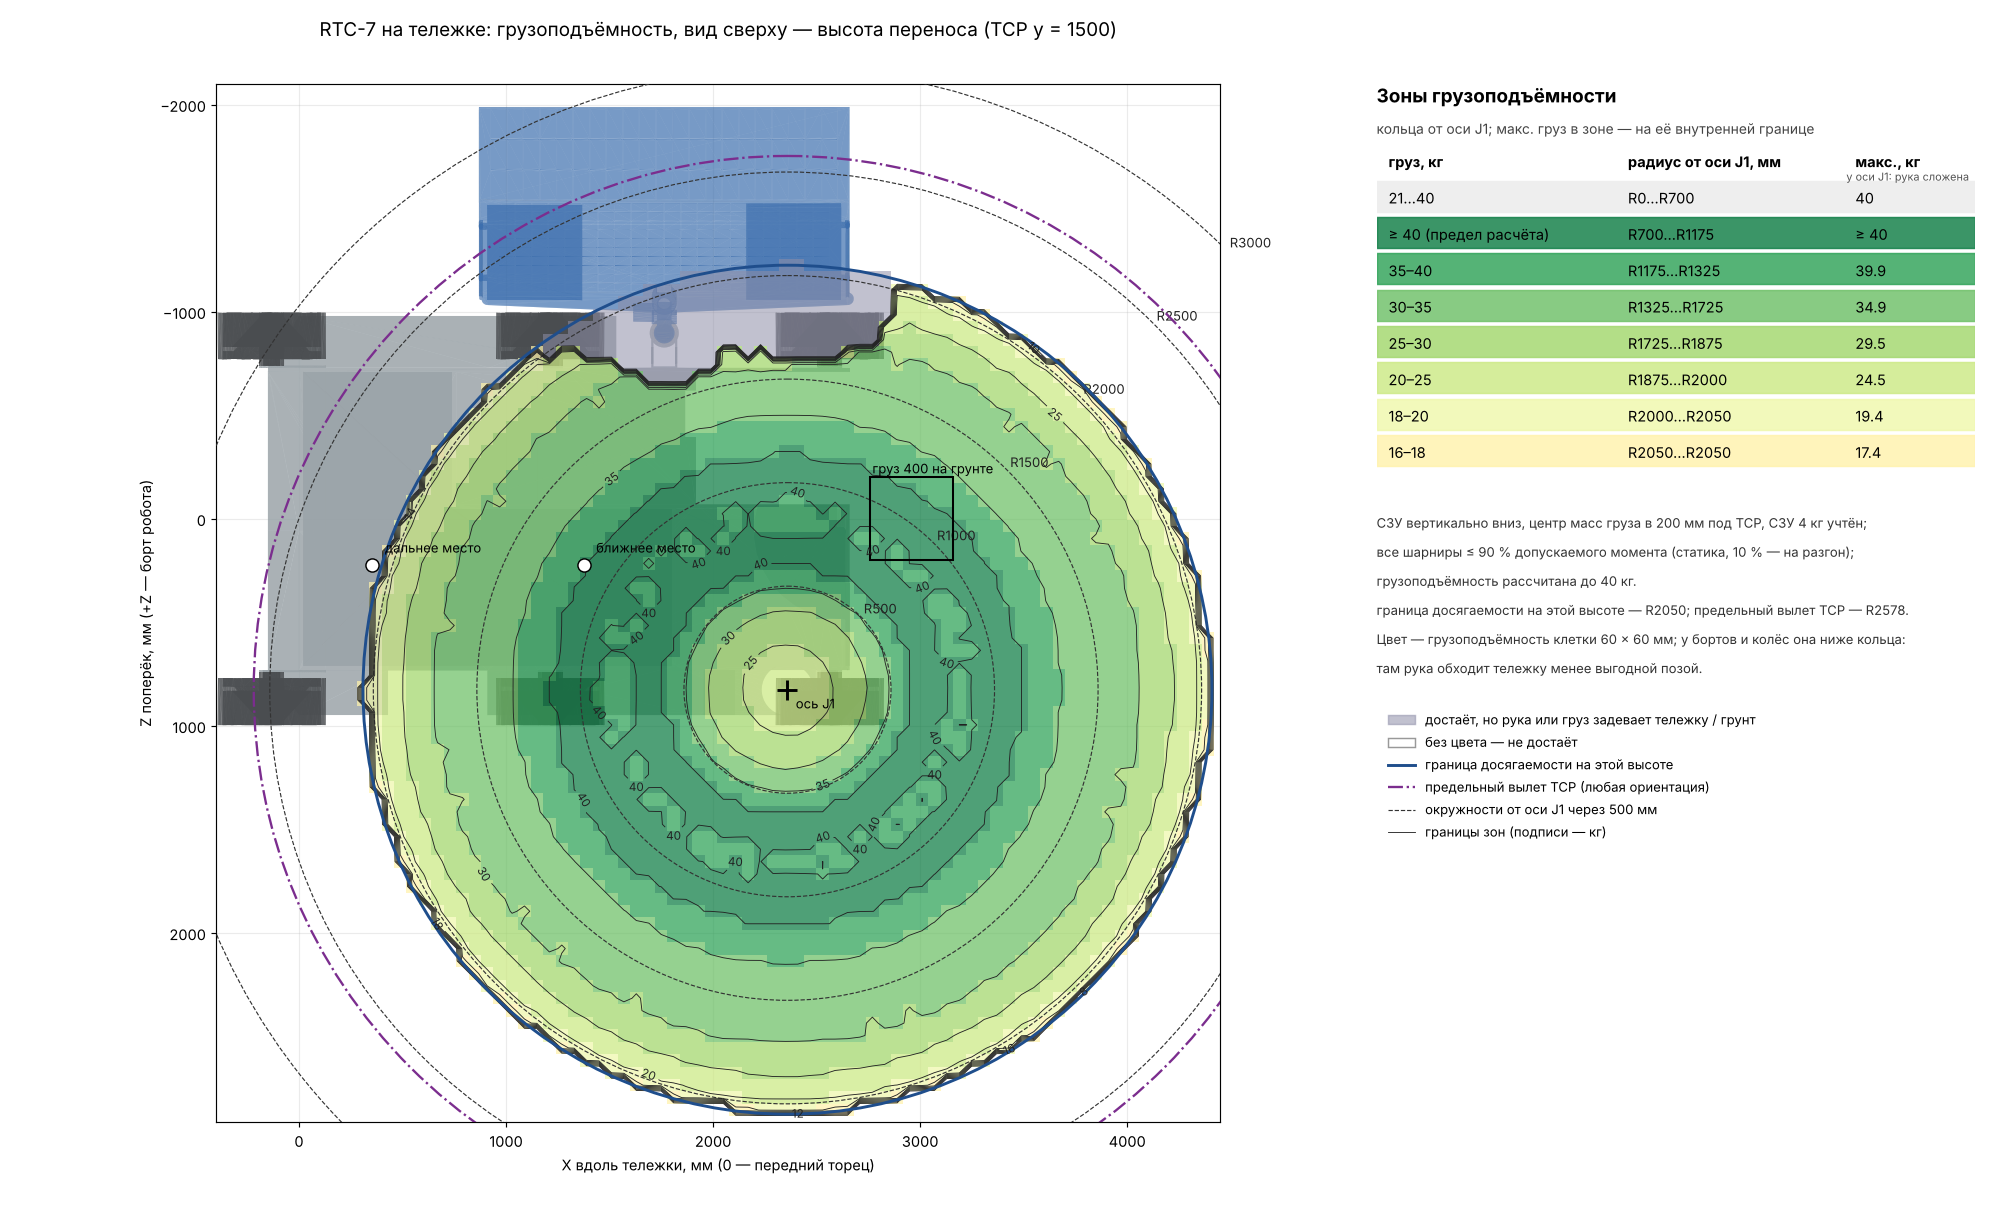
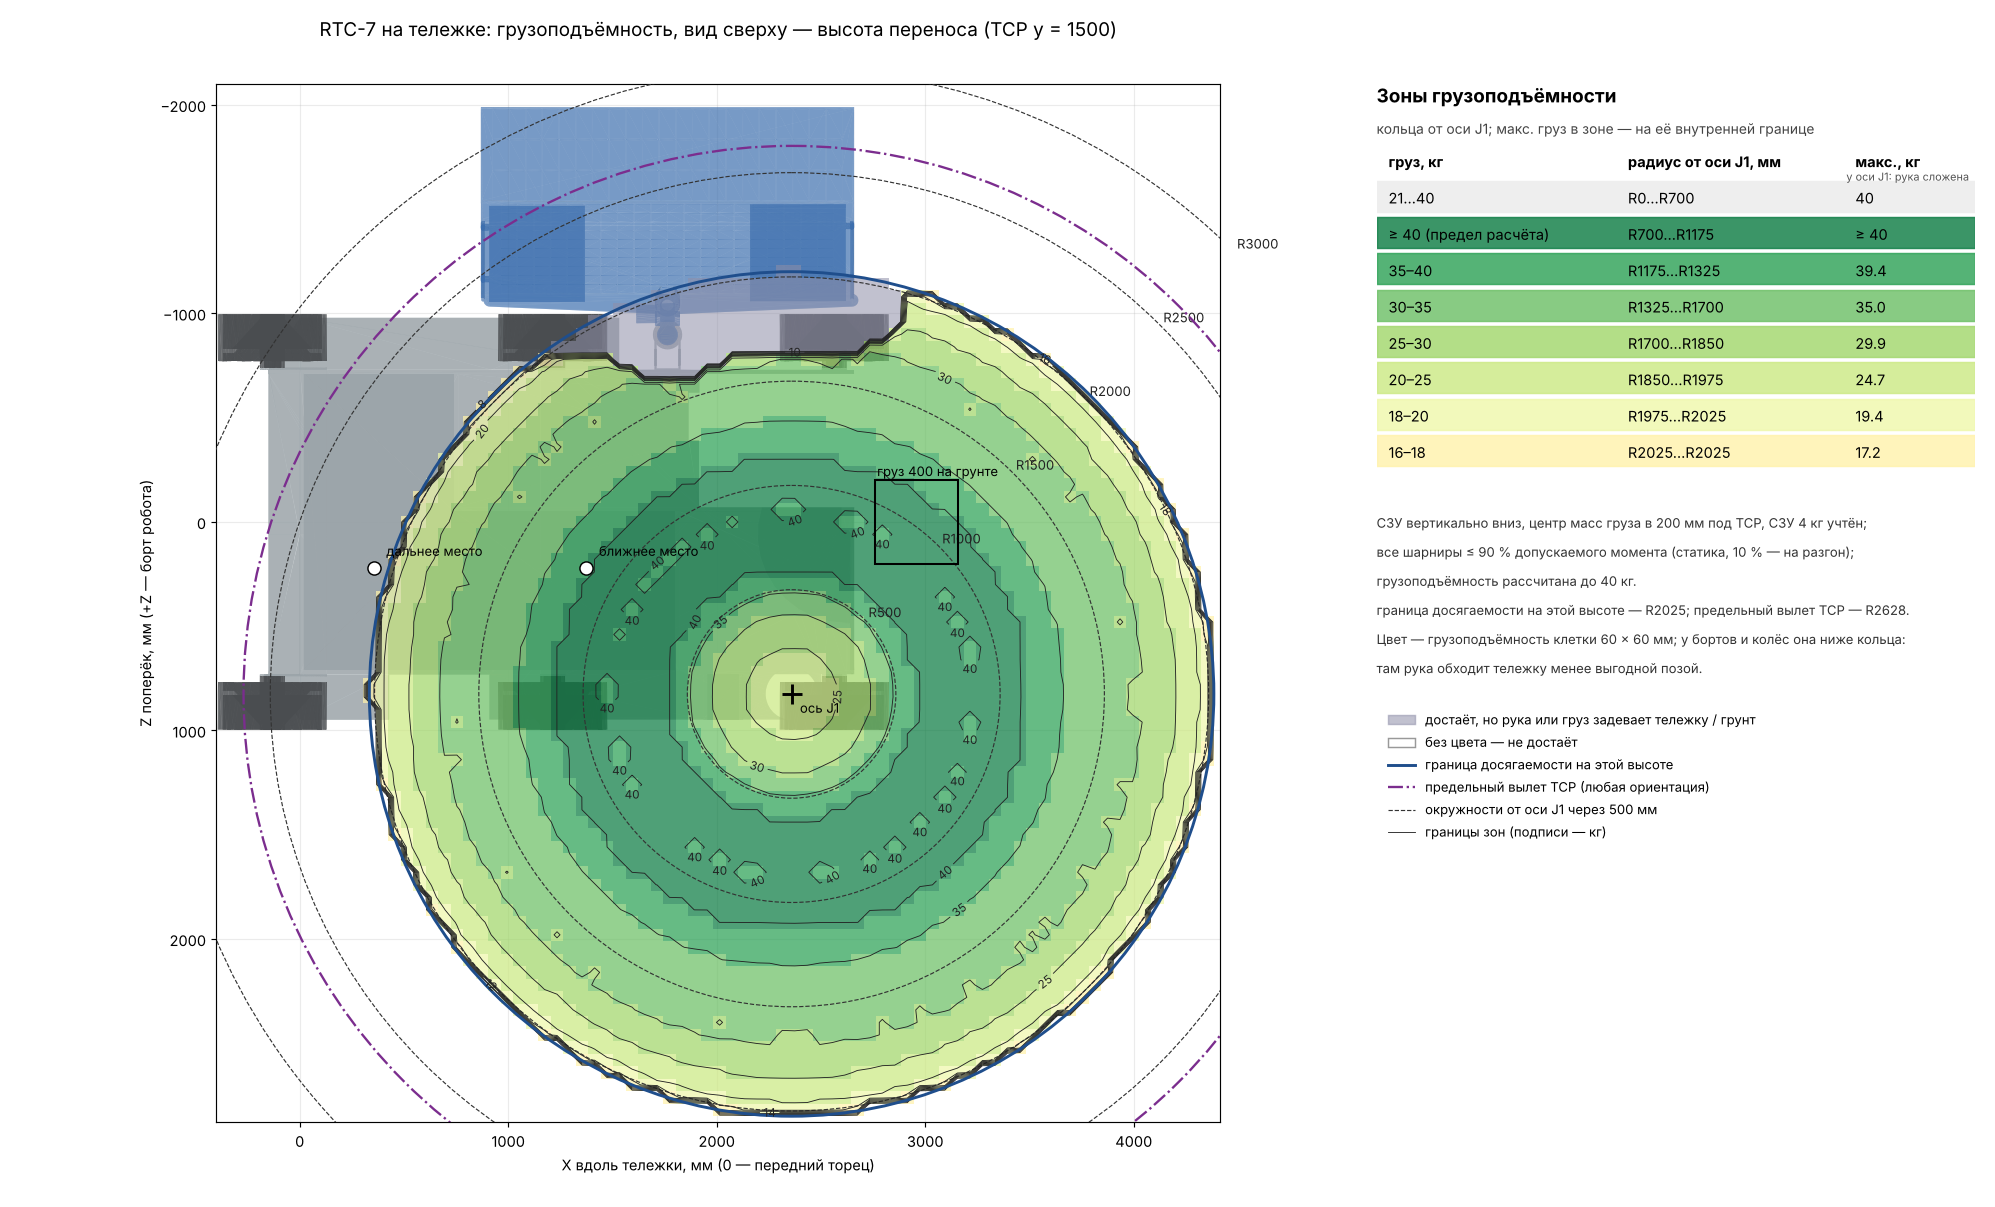
cart: joint loads and payload maps recomputed with the KWR90 stack; REACH.md / STATUS
Claude-Session: https://claude.ai/code/session_013iLz47Yh3em5PYAnxjXBCa

diff --git a/platform/CART/REACH.md b/platform/CART/REACH.md
@@ -1,5 +1,17 @@
 # RTC-7 на тележке: досягаемость по сценариям (пересчёт 05.11.2026 на текущей руке)
 
+
+## 2026-11-13: с датчиком силы-момента KWR90 между J7 и СЗУ (`CART_FTS=1`, по умолчанию)
+Пакет: переходник J7→датчик 19 мм + KWR90 24 мм + переходник датчик→СЗУ (эскиз: плита 6 + центрирующий бурт 11) —
+СЗУ и TCP сдвинуты на +51 мм по оси J7, масса пакета 0.70 кг (по моделям, Al + крепёж). Добавлены: наклоняющий момент J7
+(KB17, 48 Н·м, точка — выходной подшипник) и диапазоны датчика (Fxy 400 Н, Fz 800 Н, Mxy 36 Н·м) в общий коэффициент.
+- Сценарии (8 кг, ось СЗУ вертикальна): касаний нет; рост коэффициентов 0.01–0.04: J2 0.72, J3⊥ 0.80, J4 0.59–0.61,
+  J5⊥ 0.61 (было 0.71 / 0.78 / 0.57–0.59 / 0.59). На J6, J7⊥ и датчике при вертикальной оси нагрузки нет:
+  Fz 40 Н без груза, 119 Н с грузом 8 кг; Mxy ≈ 0. Высота переноса к дальнему месту по расчёту — TCP 1350.
+- Карты грузоподъёмности: границы зон сместились на 25–50 мм (в пределах разброса решений IK): ≥ 40 кг до R1175 / R1125 /
+  R1150 (грунт / палуба / перенос), ≥ 20 кг до R1975 / R1975 / R1950, 8 кг — по всей зоне досягаемости.
+- Наклон оси СЗУ от вертикали (по предельному коэффициенту 0.9): 8 кг — до 90° без ограничений (Mxy датчика 31 Н·м
+  при 90°); 20 кг — до 25° (ограничивает диапазон Mxy датчика), по механике — до 30° (J7⊥ KB17; без датчика было ~37°).
 ## Текущая компоновка (12.11.2026): основание робота утоплено
 
 Пользователь 12.11: верхняя плоскость ОПУ RU178G — в плоскости палубы (y = 520); фланец тележки убран, переходная

diff --git a/STATUS_2026-10-26.md b/STATUS_2026-10-26.md
@@ -140,3 +140,5 @@ Word-выгрузка делалась 26.10.2026.
    зазор — звено 1 над палубой 8 мм. Варианты фланца 12 / 0 мм — `KORPUS_F12/F0.STEP` (`tools/cart_flange.py`).
 
 23. 2026-11-12 Переходник J7 → датчик KWR90, НИЗКИЙ вариант (`tools/make_kwr90_adapter.py` → `components/Kunwei/KWR90/KWR90-J7-adapter.STEP`, сборка `KWR90-J7-stack.STEP`, превью): юбка D80 с посадкой D62H7×9 на выходной вал KB17 + плита D90, общая высота 19 мм (первый вариант — чашка 35 мм — заменён); 16×M3×20 DIN7984 в цековках сверху (полная резьба 6 мм в валу), рисунок M3 повёрнут на +16° относительно датчика (СК датчика повёрнута на 16° к нулю J7 — учесть в ПО); 6×M5 на Helicoil 1.5D, PCD78; 2 штифта D5 (26/206°, принято); кабель — радиальный паз 4.5×4.5 в верхнем торце на −74° (рядом с бобышкой), центральный карман D22, изгиб R12 вниз в трубку 16×1 (бурт D22) через полый входной вал D19. Масса 0.20 кг (Al). Торец датчика под СЗУ на x = 90.5 шарнира J7 (было 56.5): +34 мм к TCP + второй переходник датчик → СЗУ.
+
+24. 2026-11-13 Нагрузки с датчиком KWR90 (`CART_FTS=1` по умолчанию в tools/cart_layout.py / cart_reach.py): СЗУ +51 мм, пакет 0.70 кг; добавлены J7⊥ (48 Н·м) и диапазоны датчика. Сценарии и карты пересчитаны (`platform/CART/REACH.md`, раздел 2026-11-13): прирост 1–4 %, J3⊥ 0.80 максимум; 20 кг — наклон СЗУ ≤ 25° (диапазон Mxy датчика), ≤ 30° по J7. Анимация ещё на старой геометрии (без пакета датчика).
